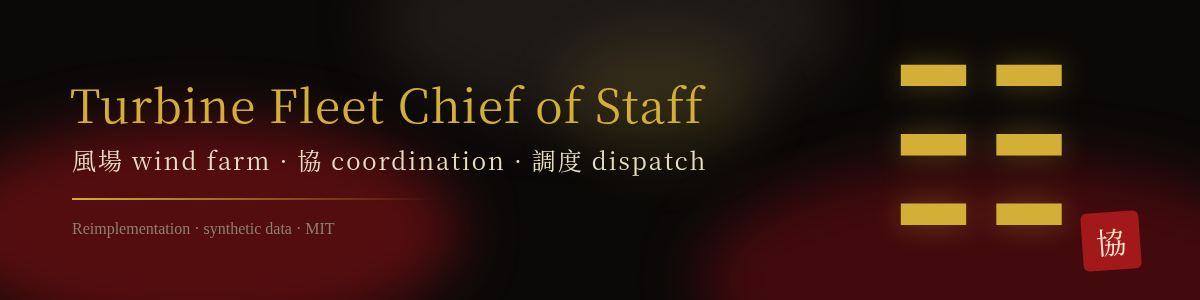
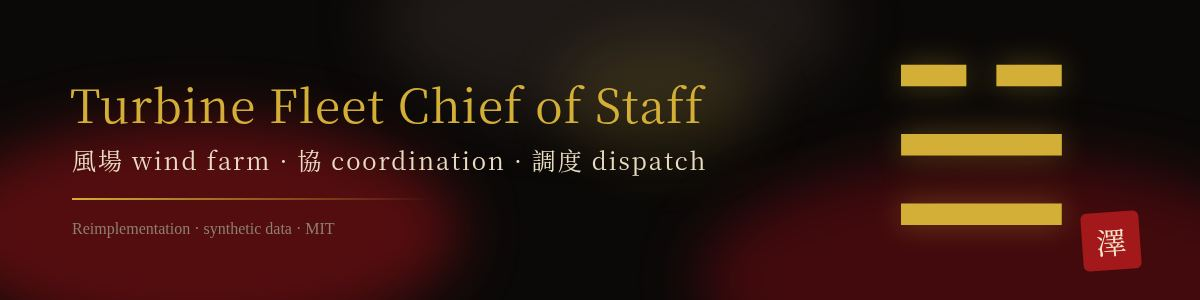
Trigram update (☷ Kun / ☱ Dui), README and demo refresh

diff --git a/demo/index.html b/demo/index.html
@@ -1,7 +1,7 @@
 <!doctype html><html lang="en"><head><meta charset="utf-8"><meta name="color-scheme" content="dark"><meta name="viewport" content="width=device-width,initial-scale=1">
 <title>Turbine Fleet Chief of Staff — live demo on synthetic wind data</title><meta name="description" content="The forecasting agent, in your browser. Interactive wind speed forecast vs persistence on synthetic data.">
 <link rel="stylesheet" href="style.css"></head><body class="stack">
-<header><div class="tri" aria-hidden="true">☷</div><h1>Turbine Fleet Chief of Staff</h1><p>The forecasting agent, in your browser</p><p class="tricap">☷ Earth — Kūn: the fleet that carries</p></header>
+<header><div class="tri" aria-hidden="true">☱</div><h1>Turbine Fleet Chief of Staff</h1><p>The forecasting agent, in your browser</p><p class="tricap">☱ Lake — Duì: calm water that reflects the whole fleet</p></header>
 <main>
 <section class="card wide"><div class="legend"><span><i style="background:var(--obs)"></i>observed</span><span><i style="background:var(--model)"></i>demo model, gold (1 h ahead)</span><span><i style="background:var(--pers)"></i>persistence, grey</span></div>
 <canvas id="chart" aria-label="One week of synthetic wind speed with the demo model forecast and the persistence forecast"></canvas></section>

diff --git a/README.md b/README.md
@@ -1,4 +1,4 @@
-![Banner: crimson and black ink-wash background with the gold trigram ☷ (坤 Kūn, Earth), the title and a red seal stamp](docs/img/banner.jpg)
+![Banner: crimson and black ink-wash background with the gold trigram ☱ (兌 Duì, Lake), the title and a red seal stamp](docs/img/banner.jpg)
 
 # Multi-agent 'AI chief of staff' for wind-turbine fleet operations
 
@@ -18,7 +18,7 @@ A deterministic multi-agent "AI chief of staff" that forecasts, monitors, plans 
 
 The [live demo](https://rishabh-bgp.github.io/multi-agent-turbine-fleet-chief-of-staff/) runs a small version of the model directly in your browser. It shows one week of synthetic wind speed, the model's next-hour forecast (gold) and the persistence forecast (grey). Use the sliders to move through the test period or add a gust to the latest reading, and the forecast updates. The metrics are shown as red seal-style badges.
 
-**About the design.** The look borrows from Chinese ink painting: dark paper, gold lines, crimson seals. Each repository has its own trigram from the I Ching and its own seal stamp. This one uses ☷ 坤 Kūn, Earth, which stands for the receptive ground that supports everything, like the orchestrator supporting the fleet and its human approver. Across the series, 風 means wind and 預測 means forecast; the trigram for wind itself is ☴ 巽 Xùn. The motifs are decoration only and play no part in the method.
+**About the design.** The look borrows from Chinese ink painting: dark paper, gold lines, crimson seals. Each repository has its own trigram from the I Ching and its own seal stamp. This one uses ☱ 兌 Duì, Lake, which stands for a calm lake that reflects everything around it, like the orchestrator that brings every agent's view together for the human approver. Across the series, 風 means wind and 預測 means forecast; the trigram for wind itself is ☴ 巽 Xùn. The motifs are decoration only and play no part in the method.
 
 ## Architecture · 架構
 
